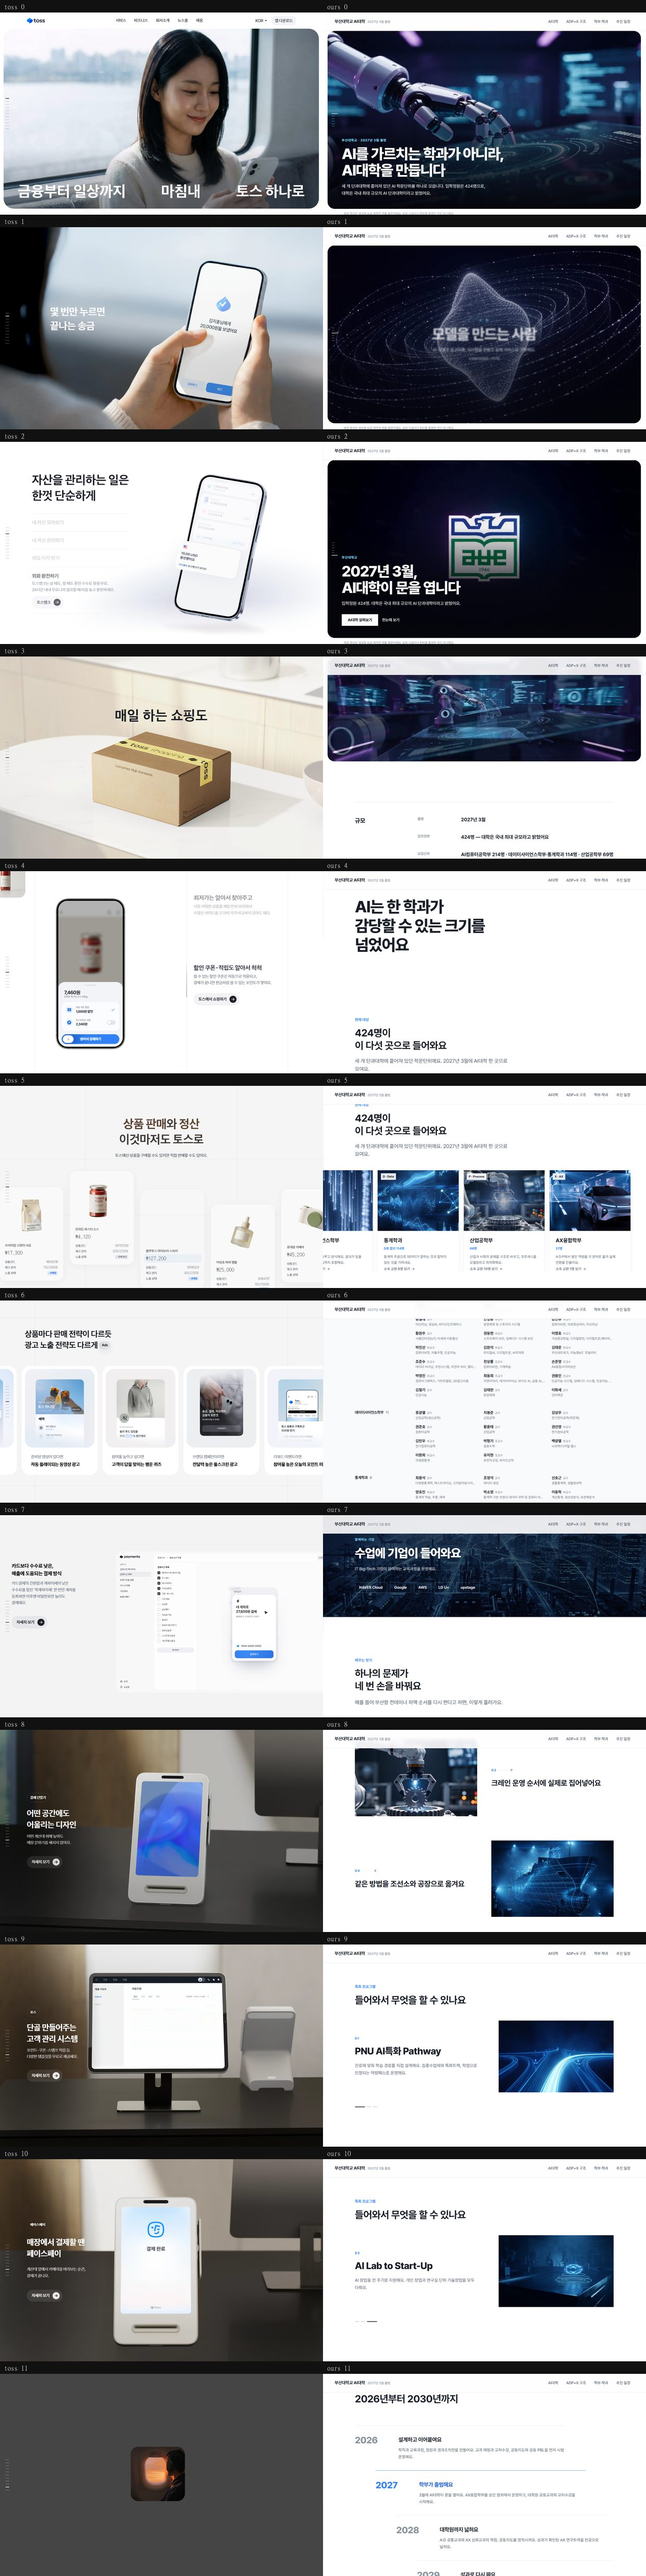
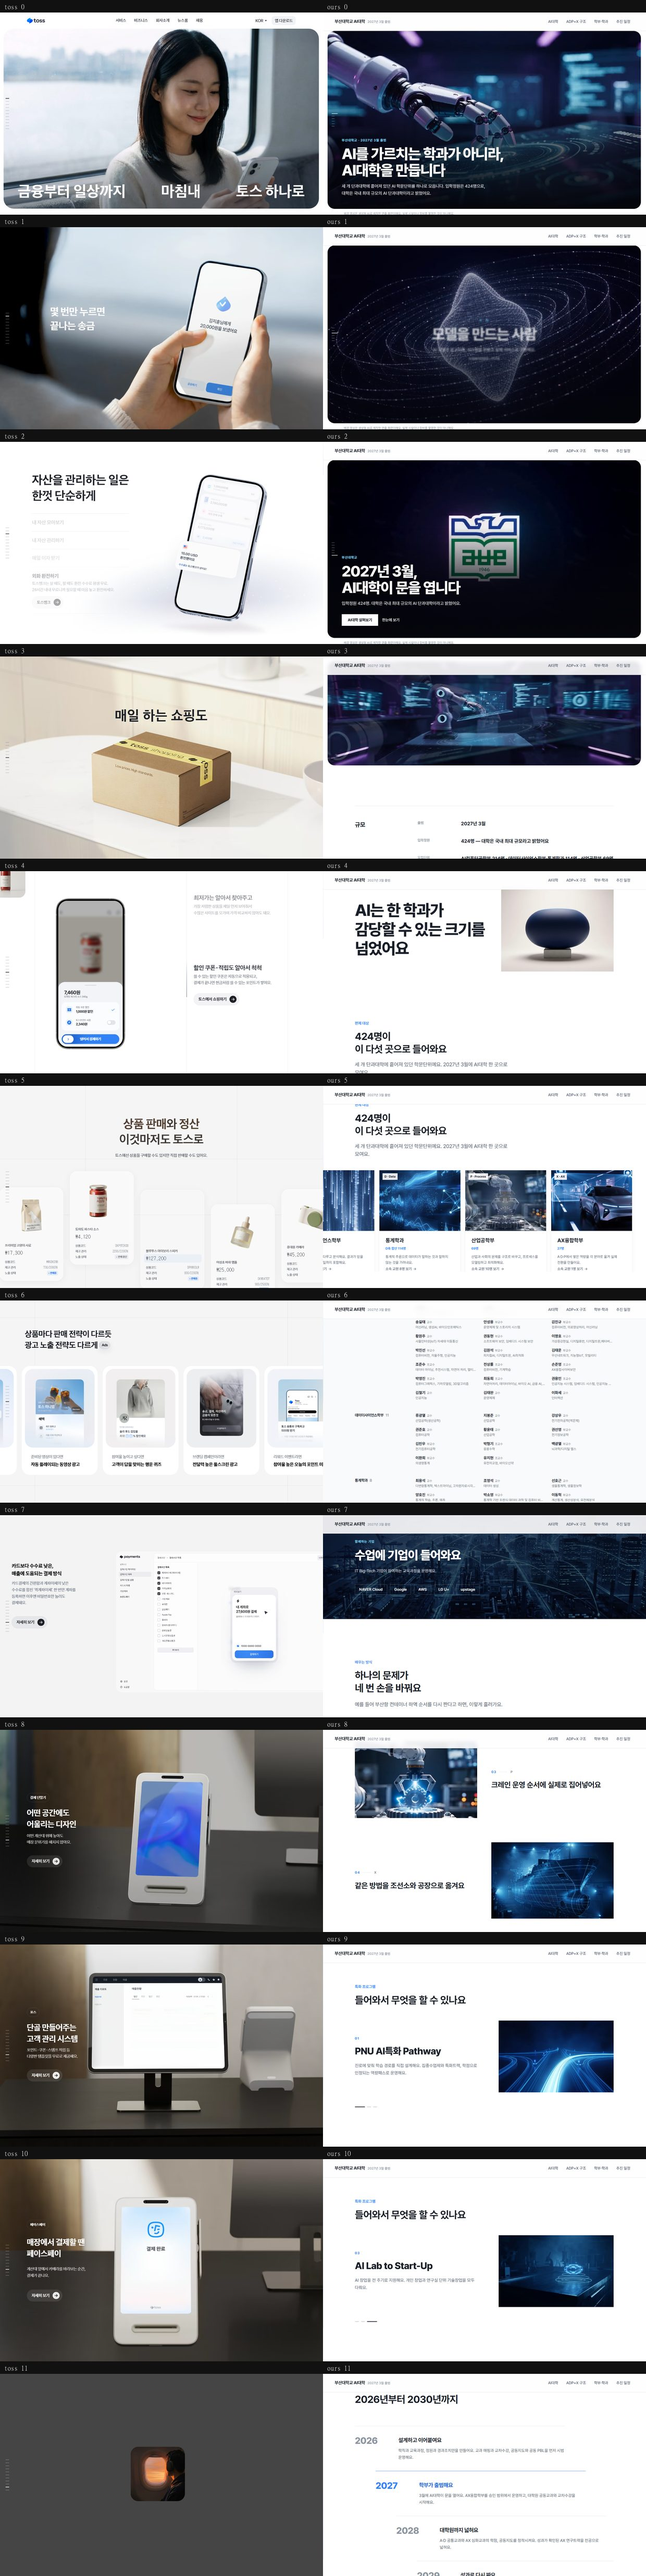
25회차 기록: 밝은 바탕 물체
Claude-Session: https://claude.ai/code/session_01DneFDYxx25DjwNJdj8uLH7

diff --git a/docs/GAP_LOG.md b/docs/GAP_LOG.md
@@ -905,3 +905,43 @@ h2 로 올리고 구역 이름(`aria-labelledby`)으로도 걸었다.
 
 **점검이 끝난 축**: 폭 390~1280 · 동작 줄이기 · 첫 화면 전송량 · 키보드 · 낭독기 뼈대.
 **남은 것**: 홈에 없는 내용은 운영 체계(PNU-APEX) 하나.
+
+## 25회차 — 밝은 바탕에 놓인 물체가 하나도 없었다
+
+접근성 축(폭·동작 줄이기·전송량·키보드·낭독기)을 다 본 뒤 toss 와 12단계로 다시
+나란히 놓았다.
+
+**관찰**: toss 의 밝은 화면은 **전부 아주 밝은 바탕에 물체 하나가 떠 있고 그림자가
+길게 깔린다** — 폰, 택배상자, POS 단말, 태블릿. 가장 조용한 화면(「온오프라인 경계
+없이」)조차 흰 바탕 한가운데에 검은 오브젝트가 서 있다.
+
+**격차**: **우리 자산 스무 개가 전부 어두운 환경이다.** 밝은 바탕에 놓을 물체가
+하나도 없어서, 밝은 절 두 곳(숨 쉬는 화면·424 화면)이 오른쪽 절반을 비운 채 글자만
+있었다. 12회차에 숨 쉬는 화면을 만들 때 "toss 는 문장 사이에 오브젝트를 세우지만
+우리는 한 덩이로 둔다" 고 적어뒀는데, 문장을 안 자르는 것과 물체를 안 두는 것은
+별개였다.
+
+**고침**: 밝은 바탕 물체 둘을 새로 만들었다. 팔레트 참조판은 어두운 램프라 여기서는
+물리지 않고, 대신 **제품 사진 문법을 프롬프트로 고정**했다 — 이음매 없는 밝은 회색
+배경, 넓은 상단 광, 길고 부드러운 접지 그림자, 무광 짙은 남색에 하늘색 엣지.
+
+| 슬러그 | 형태 | 붙는 문장 |
+|---|---|---|
+| `obj_outgrow` | 받침보다 훨씬 큰 덩어리가 작은 받침 위에 얹혀 사방으로 넘친다 | 「AI는 한 학과가 감당할 수 있는 크기를 넘었어요」 |
+| `obj_gather` | 크기가 다른 다섯 덩어리가 맞물려 하나의 윤곽을 이룬다 | 「424명이 이 다섯 곳으로」 |
+
+**두 문장이 말하는 것을 형태로 그대로 옮긴 것이라 장식이 아니다.**
+
+배치는 toss 가 가장 자주 쓰는 구도를 그대로 따랐다 — 카피 한쪽, 물체 반대쪽, 밝은
+바탕. 우리에게 아예 없던 구도다.
+
+**재측정**: 배포본 12단계에서 **행 4 가 맞았다** — toss 는 밝은 화면에 폰 목업 +
+카피, 우리는 밝은 화면에 남색 덩어리 + 카피. 밝은 화면이 toss 와 같은 구도로 선 것은
+이번이 처음이다.
+
+첫 화면 전송량은 그대로다 (영상 2,754KB) — 둘 다 화면 밖이라 `SceneVideo` 가
+붙잡고 있다. 낭독기 뼈대도 그대로 (h1 1개, 이름 없는 구역 0).
+
+**크레딧**: 24 사용 (이미지 2 x2 + 영상 10 x2). 잔액 ~563.
+
+**남은 것**: 홈에 없는 내용은 운영 체계(PNU-APEX) 하나.
